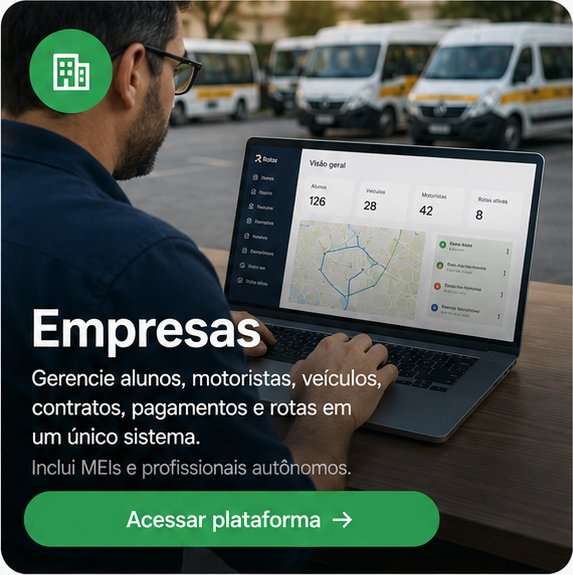
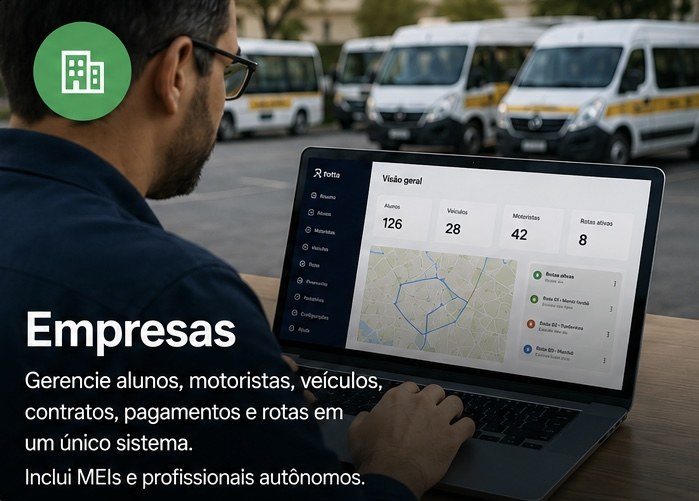
feat(web): troca fotos das audiências por versão sem botão embutido
O usuário enviou 3 fotos novas (Responsável, Empresas, Motorista/Monitor)
para substituir a versão anterior: agora sem CTA desenhado dentro dos
pixels da imagem, já que o botão de verdade (nosso Link/CTA) já fica ao
lado/abaixo de cada cartão.

A foto de Motorista/Monitor veio numa proporção bem mais larga (~4,25:1,
contra ~1,4:1 das outras duas) — testado recorte forçado pra caber num
cartão quadrado e confirmado que qualquer corte moderado cortava ou o
título 'Motorista / Monitor' ou o motorista da foto inteiramente. Corrigido
trocando o aspect-square fixo por aspectRatio dinâmico (proporção real de
cada arquivo), preservando o conteúdo completo das 3 fotos sem nenhum
corte — o cartão de Motorista/Monitor fica visualmente mais baixo e largo
que os outros dois, é uma troca deliberada a favor de mostrar a foto
inteira.

Claude-Session: https://claude.ai/code/session_01MFVmUeSZA7epxjY9Ugc7jV

diff --git a/apps/web/src/app/(marketing)/page.tsx b/apps/web/src/app/(marketing)/page.tsx
@@ -340,34 +340,46 @@ const BENEFICIOS: {
  * tipo de seção, sem fingir uma autenticidade que a Rotta não tem).
  */
 /**
- * Fotos reais por audiência (`public/marketing/audiencia-*.jpg`,
- * recortadas do banner enviado pelo usuário — 3 cartões no arquivo
- * original: Responsável/Empresas/Motorista+Monitor combinados). Como o
- * arquivo original funde Motorista e Monitor numa única foto, as duas
- * audiências aqui reaproveitam a mesma imagem — o texto/bullets de cada
- * uma continuam distintos (Dossiê 13: motorista dirige e faz checklist
- * do veículo, monitor acompanha os alunos sem dirigir), só a foto é
- * compartilhada por não existir uma terceira imagem separada no banner
- * original. Chaveado por `titulo` (não por `tone`) exatamente por causa
- * desse compartilhamento — duas audiências com `tone` diferente
- * (`success`/`info`) apontam pra o mesmo arquivo de foto.
+ * Fotos reais por audiência (`public/marketing/audiencia-*.jpg`) — 2ª
+ * versão enviada pelo usuário: 3 arquivos separados (não mais um
+ * banner único recortado por mim), sem botão desenhado dentro da
+ * imagem desta vez ("são melhores, já que tem um botão do lado de cada
+ * um" — o botão de verdade já vem do nosso próprio `Button`/`Link`
+ * abaixo). Motorista e Monitor continuam reaproveitando o mesmo
+ * arquivo (só existe uma foto pros dois no material enviado) — texto/
+ * bullets de cada audiência continuam distintos (Dossiê 13: motorista
+ * dirige e faz checklist do veículo, monitor acompanha os alunos sem
+ * dirigir). Chaveado por `titulo`, não por `tone`, por causa desse
+ * compartilhamento.
+ *
+ * `ratio` = largura/altura REAL do arquivo (nunca forçado a quadrado):
+ * as fotos de Responsável/Empresas já vêm quase quadradas (~1,39), mas
+ * a de Motorista/Monitor é uma faixa bem mais larga (~4,25) — testado
+ * e confirmado que qualquer recorte pra encaixar num cartão quadrado
+ * cortava ou o texto "Motorista / Monitor" ou o motorista da foto
+ * inteiramente. Preservar a proporção original de cada uma é o único
+ * jeito de mostrar a foto completa sem perder nenhuma das duas partes.
  */
-const AUDIENCE_PHOTO: Record<string, { src: string; alt: string }> = {
+const AUDIENCE_PHOTO: Record<string, { src: string; alt: string; ratio: number }> = {
   "Sou responsável": {
     src: "/marketing/audiencia-responsavel.jpg",
     alt: "Responsável acompanhando o transporte escolar em tempo real pelo celular",
+    ratio: 695 / 501,
   },
   "Sou transportadora": {
     src: "/marketing/audiencia-empresas.jpg",
     alt: "Gestor de transportadora acompanhando a frota pelo painel da Rotta",
+    ratio: 699 / 501,
   },
   "Sou motorista": {
     src: "/marketing/audiencia-motorista-monitor.jpg",
     alt: "Motorista de transporte escolar usando o aplicativo da Rotta",
+    ratio: 1420 / 334,
   },
   "Sou monitor": {
     src: "/marketing/audiencia-motorista-monitor.jpg",
     alt: "Monitor de transporte escolar usando o aplicativo da Rotta",
+    ratio: 1420 / 334,
   },
 };
 
@@ -394,12 +406,15 @@ function AudienceVisual({
 }): JSX.Element {
   const photo = AUDIENCE_PHOTO[titulo];
   return (
-    <div className="relative aspect-square w-full max-w-sm transition-transform duration-300 group-hover:-translate-y-1.5">
+    <div
+      className="relative w-full max-w-sm transition-transform duration-300 group-hover:-translate-y-1.5"
+      style={{ aspectRatio: photo?.ratio ?? 1 }}
+    >
       <div
         className={`absolute -inset-6 rounded-[40px] ${TONE_BG[tone]}/10 blur-2xl transition-all duration-300 group-hover:blur-3xl group-hover:scale-105`}
         aria-hidden="true"
       />
-      <div className="relative aspect-square w-full overflow-hidden rounded-[32px] border border-border shadow-none transition-shadow duration-300 group-hover:border-border-strong group-hover:shadow-2xl">
+      <div className="relative h-full w-full overflow-hidden rounded-[32px] border border-border shadow-none transition-shadow duration-300 group-hover:border-border-strong group-hover:shadow-2xl">
         {photo && (
           <Image
             src={photo.src}
@@ -410,12 +425,9 @@ function AudienceVisual({
           />
         )}
         {/*
-          Chip de hover no canto SUPERIOR direito, nunca no rodapé — as
-          3 fotos (`AUDIENCE_PHOTO`) já têm o próprio botão desenhado
-          dentro da imagem, colado na base ("Entrar como responsável",
-          "Acessar plataforma", "Área profissional"); um chip embaixo
-          ficaria em cima desse botão já impresso na foto, duplicando a
-          call-to-action. Aqui em cima a área é sempre livre nas 3 fotos.
+          Chip de hover no canto superior direito — livre nas 3 fotos
+          atuais (2ª versão enviada pelo usuário, sem botão desenhado
+          dentro da imagem desta vez).
         */}
         <div className="absolute right-4 top-4 flex -translate-y-2 items-center gap-1.5 rounded-full border border-border bg-card/95 px-3 py-1.5 opacity-0 shadow-lg backdrop-blur transition-all duration-300 group-hover:translate-y-0 group-hover:opacity-100">
           <Typography variant="caption" className={`font-semibold ${TONE_TEXT[tone]}`}>
